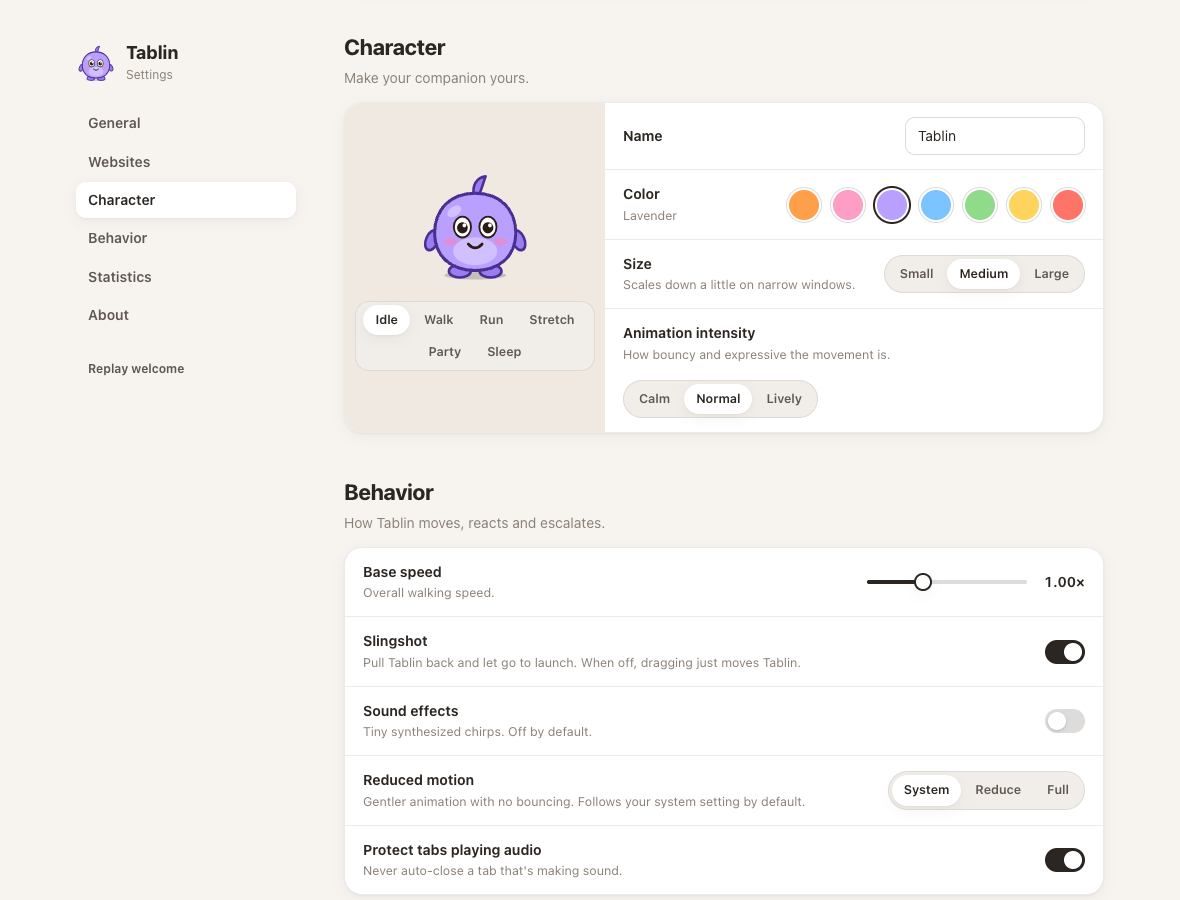
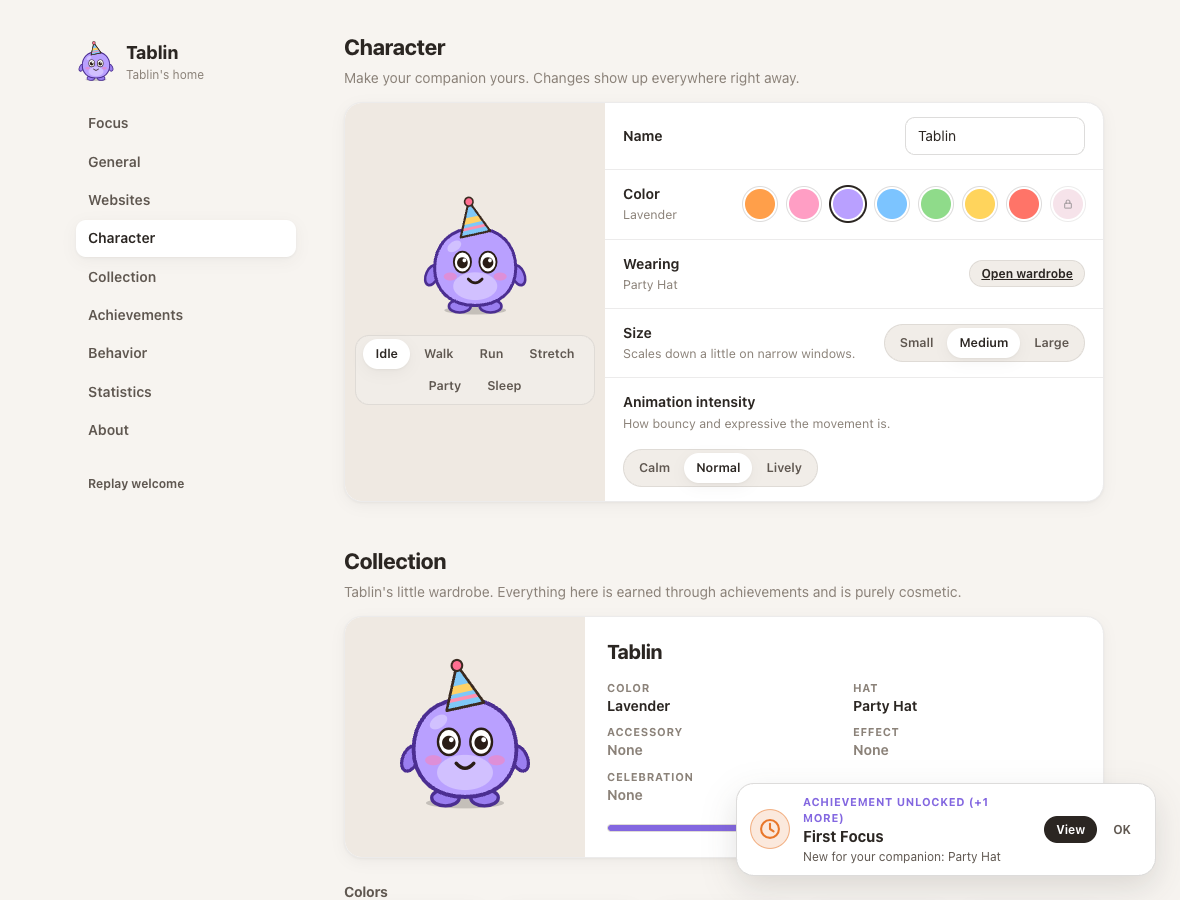
docs: Tablin 2.0 README, architecture, and refreshed screenshots

diff --git a/README.md b/README.md
@@ -1,11 +1,16 @@
 # Tablin
 
-**A tiny companion that walks over and closes your distracting tabs.**
+**A tiny companion that walks over and closes your distracting tabs, keeps you company while you
+focus, and earns little rewards along the way.**
 
 Open Instagram, TikTok, YouTube, Facebook, Reddit or X, and after a few seconds a small round
 creature pops in at the top of the page. It notices you, turns, and heads for a close button in
 the top-right corner. Grab it and pull it back to build tension, and it slingshots forward when you
 let go. Keep coming back and it gets faster, up to a fair cap.
+
+Start a focus session and Tablin dozes beside your timer, then wakes up to celebrate when you finish.
+Focus every day to build a streak, unlock achievements, and dress your companion in hats and
+accessories you've earned.
 
 Tablin is a Chrome extension (Manifest V3). It's local-only: no accounts, no analytics, and no
 network requests.
@@ -14,6 +19,10 @@ network requests.
 | ----------------------------------------------------------------------- | --------------------------------------------------------------------- | ------------------------------------------------------------------- | ----------------------------------------------- |
 | ![Tablin walking along the top of a page](docs/screenshots/walking.png) | ![Pulling Tablin back builds tension](docs/screenshots/slingshot.png) | ![Tablin asks whether to close the tab](docs/screenshots/nudge.png) | ![The Tablin popup](docs/screenshots/popup.png) |
 
+| Focus                                             | Collection                                                | Achievements                                          | Websites                                                        |
+| ------------------------------------------------- | --------------------------------------------------------- | ----------------------------------------------------- | --------------------------------------------------------------- |
+| ![Focus dashboard](docs/screenshots/v2-focus.png) | ![Character wardrobe](docs/screenshots/v2-collection.png) | ![Achievements](docs/screenshots/v2-achievements.png) | ![Logos and custom countdown](docs/screenshots/v2-websites.png) |
+
 > Screenshots are generated by the end-to-end test (`npm run test:e2e`) against a local test page,
 > so they always reflect the current build.
 
@@ -21,6 +30,7 @@ network requests.
 
 ## Contents
 
+- [What's new in 2.0](#whats-new-in-20)
 - [Features](#features)
 - [Install (no coding needed)](#install-no-coding-needed)
 - [How it works](#how-it-works)
@@ -32,6 +42,36 @@ network requests.
 - [Troubleshooting](#troubleshooting)
 - [Roadmap](#roadmap)
 - [Contributing](#contributing)
+
+## What's new in 2.0
+
+- **Website logos.** Built-in sites show recognizable, locally bundled logo marks instead of letter
+  tiles. Custom sites keep a tidy letter tile. No logo is ever fetched from the network.
+- **Custom countdowns.** Each site can use the global default, a preset (5–60 s), or **Custom**: any
+  whole number of seconds from 5 to 60, typed into a validated field. Changing the global default never
+  overwrites a site you set explicitly.
+- **Focus sessions.** Presets of 15, 25, 45, 60 and 90 minutes, or custom (1–240). There are short,
+  long and custom breaks, a long break suggested every N sessions, and pause, resume and end. The
+  timer lives in the background worker on timestamps and `chrome.alarms`, so it keeps going with the
+  popup closed and survives worker suspension. Each completion is recorded exactly once.
+- **Focus statistics.** Today, this week, total time, completed sessions, longest and average
+  session, daily and weekly charts, session history, and distractions caught.
+- **Daily streaks.** Consecutive local days with at least one completed focus session of 5 minutes
+  or more. Tablin shows your current and longest streak in friendly language.
+- **Achievements.** 18 achievements across Focus, Streaks, Distraction control and Time. They're
+  computed from real stored data, evaluated idempotently, and each has its own badge.
+- **Unlockable cosmetics.** Earn a Pastel Pink color, a Party Hat, Graduation Cap, Little Crown, Night
+  Cap, Star Clip, Bow Tie, Determined Headband, Golden Accent, and a Confetti celebration. They're
+  purely cosmetic: no payments, no randomness.
+- **Collection and wardrobe.** A grid of every item showing its unlock requirement and equipped
+  state, with a large live preview.
+- **The same character.** Cosmetics are layers inside the existing SVG rig's body group, so they
+  move with every existing animation. The engine, movement physics and slingshot are unchanged, and
+  tests assert that.
+- **Redesigned popup and settings.** The popup has Home and Focus tabs plus quick links to Character,
+  Achievements, Stats and Settings. The settings page adds Focus, Collection and Achievements sections.
+- **Safe upgrade.** A versioned, idempotent storage migration keeps every v1 setting, site toggle,
+  per-site delay, color, name and statistic.
 
 ## Features
 
@@ -109,6 +149,13 @@ A ready-to-share ZIP is produced by `npm run package` at `release/tablin-<versio
 contains the built extension (the same files as `dist/`) and is suitable for Chrome Web Store upload.
 To load it unpacked, unzip it first and select the unzipped folder.
 
+### Upgrading from 0.1
+
+Pull the latest code, run `npm install && npm run build`, then click **↻ (reload)** on Tablin's card
+in `chrome://extensions`. Your settings, sites, per-site delays, color, name and statistics migrate
+automatically. If you'd already been caught by Tablin enough times, the matching distraction
+achievements unlock right away.
+
 ## How it works
 
 1. You open a supported site. The countdown runs only while that tab is the active tab and visible.
@@ -127,13 +174,14 @@ decisions and the actual `chrome.tabs.remove` call happen in the background work
 
 ## Permissions
 
-| Permission                                                                                                                | Why                                                                                                                                                |
-| ------------------------------------------------------------------------------------------------------------------------- | -------------------------------------------------------------------------------------------------------------------------------------------------- |
-| Host access to `instagram.com`, `tiktok.com`, `youtube.com`, `facebook.com`, `reddit.com`, `x.com` (and their subdomains) | To show the character on those sites, and to read those tabs' URLs to verify a tab before closing it. Tablin doesn't read or collect page content. |
-| `storage`                                                                                                                 | Saves your settings, counters and the last closed tab's address on this device.                                                                    |
-| `alarms`                                                                                                                  | Ends timed pauses on schedule even if the background worker was asleep.                                                                            |
-| `scripting`                                                                                                               | Runs Tablin on sites _you add_ (after Chrome asks you for that one site), and on supported tabs that were already open when Tablin was installed.  |
-| Optional host access (`*://*/*`)                                                                                          | Never granted up front. When you add a custom site, Chrome asks for permission for **that domain only**. Removing the site removes the permission. |
+| Permission                                                                                                                | Why                                                                                                                                                                                                                |
+| ------------------------------------------------------------------------------------------------------------------------- | ------------------------------------------------------------------------------------------------------------------------------------------------------------------------------------------------------------------ |
+| Host access to `instagram.com`, `tiktok.com`, `youtube.com`, `facebook.com`, `reddit.com`, `x.com` (and their subdomains) | To show the character on those sites, and to read those tabs' URLs to verify a tab before closing it. Tablin doesn't read or collect page content.                                                                 |
+| `storage`                                                                                                                 | Saves your settings, counters and the last closed tab's address on this device.                                                                                                                                    |
+| `alarms`                                                                                                                  | Ends timed pauses and focus sessions on schedule even if the background worker was asleep.                                                                                                                         |
+| `notifications` _(optional, new in 2.0)_                                                                                  | Not granted at install. Chrome asks only if you turn on **Settings → Focus → Notify when a session ends**, so Tablin can tell you a session finished with the popup closed. Turning it off removes the permission. |
+| `scripting`                                                                                                               | Runs Tablin on sites _you add_ (after Chrome asks you for that one site), and on supported tabs that were already open when Tablin was installed.                                                                  |
+| Optional host access (`*://*/*`)                                                                                          | Never granted up front. When you add a custom site, Chrome asks for permission for **that domain only**. Removing the site removes the permission.                                                                 |
 
 Tablin doesn't request the `tabs`, `history`, `webRequest` or `<all_urls>` permissions. It uses
 `chrome.tabs` only for the tabs it already has host access to.
@@ -145,10 +193,14 @@ Tablin doesn't request the `tabs`, `history`, `webRequest` or `<all_urls>` permi
   and sounds.
 - Your browsing is never sent anywhere. Site detection runs locally against your site list.
 - Stored locally in `chrome.storage`: your settings; daily counters (caught, closed, snoozed,
-  reminders) kept for 120 days; the escalation count; the URL, title and tab position of the last
-  tab Tablin closed (kept so you can reopen it, and offered for 10 minutes); and per-tab countdown
-  state in session storage, which Chrome clears when the browser quits.
-- Uninstalling the extension deletes all of it. **Settings → Statistics → Reset** clears the counters.
+  reminders, focus minutes and sessions) kept for about 13 months; the escalation count; your focus
+  timer state and the last 500 focus sessions; achievements and your companion's wardrobe; the URL,
+  title and tab position of the last tab Tablin closed (kept so you can reopen it, and offered for 10
+  minutes); and per-tab countdown state in session storage, which Chrome clears when the browser quits.
+- Uninstalling the extension deletes all of it. **Settings → Statistics → Reset** clears counters
+  and focus history. Achievements and rewards you've earned are kept.
+- Site logos are trademarks of their owners. They're used only to identify each site in Tablin's
+  own settings and don't imply affiliation or endorsement.
 
 ## Development
 
@@ -160,18 +212,37 @@ npm test           # unit tests (Vitest)
 npm run lint       # ESLint + Prettier check
 npm run package    # build + release/tablin-<version>.zip
 npm run test:e2e   # end-to-end in real Chrome for Testing (downloads it once into .cache/)
+npm run test:upgrade # real upgrade: builds v0.1.0 from git, creates data, upgrades in place to this build
 npm run icons      # regenerate toolbar icons (procedural, no image tools needed)
 ```
 
 ### Testing
 
-- **Unit tests** (about 150 tests) cover domain and subdomain matching, lookalike domains, the
+- **Unit tests** (253 tests in 21 files). The original suite covers domain and subdomain matching, lookalike domains, the
   countdown, cancellation, active-tab verification, pinned and audible protection, unsaved-input
   protection, escalation curves and caps, drag clamping, tension and charge, launch velocity, spring
   behavior, the character state machine and controller (walk, run, drag, slingshot, arrival),
   settings validation, storage persistence, message routing and sender checks, rapid tab switching,
   reloads, duplicate events, disabled sites, pauses, emergency stop, undo, and service worker
-  suspension (a fresh manager over the same storage).
+  suspension (a fresh manager over the same storage). The V2 tests cover:
+  - **Focus timer:** start, pause and resume on timestamps; custom-length validation; completing
+    exactly once under alarm, backup timer, popup and worker restart; ending early credits time
+    without penalty; long-break cycles; breaks that auto-start or elapse while the computer is
+    asleep; local-day attribution.
+  - **Relax during breaks**, and no lost updates when a focus completion and an interception happen
+    at the same moment.
+  - **Streaks:** consecutive days, the yesterday grace, missed days, duplicates, timezones, and the
+    longest streak surviving pruning.
+  - **Grouping:** weekly totals by Monday-to-Sunday week.
+  - **Achievements:** every threshold, idempotency, and reward repair.
+  - **Inventory:** locked items refused, wrong-slot items refused, equip and unequip, tamper
+    validation, persistence.
+  - **Migration:** v1 to v2 with every field checked, idempotent re-runs, corrupted data, fresh
+    installs.
+  - **Custom delays:** parsing, inheritance, persistence, and edits made mid-countdown.
+  - **Logos:** every site has one, no external URLs, fallback tiles.
+  - **Cosmetics:** attached inside the body group across walk, run, drag, charge, launch,
+    celebrate and sleep, with physics unchanged.
 - **End-to-end** (`tests/e2e/run-e2e.mjs`) loads `dist/` into Chrome for Testing. Every request is
   intercepted: supported-site URLs are answered with a local fixture page and everything else is
   blocked. It then checks that the character appears after the countdown and walks, that nudge mode
@@ -179,7 +250,19 @@ npm run icons      # regenerate toolbar icons (procedural, no image tools needed
   and the release launches it, that the cancel window appears and the correct tab closes, that undo
   reopens it, that "Keep this tab" keeps it, that switching tabs prevents background closure, that
   pinned tabs are protected, that escalation increases, that emergency stop works, that color
-  changes persist, and that settings survive a Chrome restart.
+  changes persist, and that settings survive a Chrome restart. V2 adds 5 checks (18 in total):
+  - The logos render, and a custom 27-second delay can be set through the picker (with validation).
+  - A focus session started from the popup keeps running after the popup closes, and pause and
+    resume work.
+  - The session completes on its own, celebrates, records stats once, and unlocks First Focus and
+    the Party Hat.
+  - Equipping the hat works, and a locked crown can't be equipped.
+  - The hatted character still walks, charges and slingshots, with the cancel window intact.
+  - V2 data survives a Chrome restart.
+- **Upgrade test** (`tests/e2e/upgrade-e2e.mjs`) builds the real v0.1.0 from git `main` and runs it
+  in Chrome to create v1 data (per-site delays, color, name, counters). It then replaces the build
+  in place with the current one (same path, so the same extension ID and storage), relaunches, and
+  checks 19 migration results inside Chrome.
 - CI (GitHub Actions) runs typecheck, lint, unit tests, build and package, and uploads the ZIP as
   an artifact.
 
@@ -190,6 +273,9 @@ src/
   background/            Manifest V3 service worker (no persistent state in memory)
     service-worker.ts      Chrome event wiring, badge, alarms, custom-site scripts
     distraction-manager.ts Per-tab lifecycle: waiting → counting → appeared; pause/snooze/undo
+    focus-manager.ts       Focus sessions & breaks: timestamps + alarms, idempotent completion
+    progress.ts            Achievement evaluation + reward granting (inside the shared lock)
+    serial.ts              One FIFO lock shared by every manager (no lost read-modify-writes)
     escalation-manager.ts  Levels, speed curve, delay shortening, approach plans (pure)
     tab-manager.ts         verifyClosable() safety gate + chrome.tabs adapter
   content/               Content script: page ↔ worker bridge
@@ -205,9 +291,10 @@ src/
     CharacterRenderer.ts   Applies poses to the SVG rig
     DragController.ts      Pointer Events + capture, Escape and pointercancel handling
     CharacterSound.ts      WebAudio-synthesized effects
-    characters/            Character designs (SVG rig builders) and color palettes
+    characters/            Character designs (SVG rig builders), palettes, cosmetic artwork
   detection/             Site registry and URL matching
-  shared/                Types, constants, settings validation, storage, stats, messages
+  shared/                Types, constants, settings validation, storage, stats, messages,
+                         achievements & cosmetics catalogs, versioned migrations
   popup/  options/  ui/  React UI and a small shared design system
 public/manifest.json     Extension manifest (built into dist/)
 tests/unit  tests/e2e    Vitest unit tests; real-Chrome end-to-end runner
@@ -227,6 +314,17 @@ Key decisions:
 - **The page overlay lives in a closed shadow root.** It builds its DOM with `createElement`
   (no `innerHTML`, which keeps it safe on Trusted Types pages) and uses constructable stylesheets
   (which page CSP doesn't block). Only the character and buttons accept pointer events.
+- **Focus timers are owned by the worker.** A session is `{startedAt, endsAt}` (or `remainingMs`
+  while paused) in `chrome.storage.local`. A `chrome.alarm`, a backup timer and any status read can
+  all trigger completion. Completion is keyed by session id, so it's recorded exactly once.
+- **Progress is derived, not counted twice.** Achievements are pure functions of stored statistics,
+  re-evaluated idempotently. Rewards are granted with the achievement and can't be equipped while
+  locked (the worker checks every equip, and rendering re-validates).
+- **Cosmetics are rig layers.** Hat and accessory slots sit inside the existing SVG body group, so
+  they inherit every bob, squash, lean, jump and drag. The engine is extended, not replaced.
+- **Migrations are versioned and idempotent.** `schemaVersion` in storage gates
+  `migrateStorage()`, which runs before the worker handles any event. The validators also accept the
+  v1 shapes, so even a partial migration can't lose data.
 - **Messages are validated and sender-checked.** Content-script messages must come from a tab.
   Popup-only commands (pause, reset and so on) must come from Tablin's own pages, so a web page
   can't drive them.
@@ -246,6 +344,10 @@ See [docs/ARCHITECTURE.md](docs/ARCHITECTURE.md) for the state diagrams.
   isn't focused.
 - Tabs that were already open on a site you just _added_ need a reload before Tablin runs there.
 - On sub-sites such as YouTube Studio, the whole domain counts. There's no per-path rule yet.
+- Focus completion is exact while the worker is awake (backup timer). Otherwise Chrome may deliver
+  the alarm up to about 30 s late. The session is still recorded at its true end time.
+- The streak threshold (5 minutes) is fixed in 2.0. It's a constant, ready to become a setting.
+- "Average session" is computed from your most recent 500 sessions.
 
 ## Troubleshooting
 
@@ -254,6 +356,8 @@ See [docs/ARCHITECTURE.md](docs/ARCHITECTURE.md) for the state diagrams.
 | Nothing happens on YouTube etc.          | Check the popup: the companion must be on and not paused, and the site enabled under Settings → Websites. Wait the full countdown with the tab in front. Reload tabs opened before installing. |
 | "Load unpacked" fails                    | Select the `dist` folder (not the project root), and run `npm run build` first.                                                                                                                |
 | Changes don't show up during development | Run `npm run dev`, then click ↻ for Tablin on `chrome://extensions` and reload the page.                                                                                                       |
+| The focus timer seems to have stopped    | It runs in the background, so reopen the popup and it catches up. If Chrome was closed, the session completes at its end time when Chrome next starts.                                         |
+| No notification when a session ends      | Check Settings → Focus → Notify, and that your OS allows Chrome notifications.                                                                                                                 |
 | The tab didn't close                     | Auto-close is off by default. Pinned tabs, tabs playing audio, and pages where you've typed something are protected on purpose.                                                                |
 | I want it gone right now                 | Press <kbd>Esc</kbd>, click **Not now**, use **Emergency stop** in the popup (<kbd>Alt</kbd>+<kbd>Shift</kbd>+<kbd>S</kbd>), or turn the switch off.                                           |
 | Shortcuts don't work                     | Another extension may own them. Set your own at `chrome://extensions/shortcuts`.                                                                                                               |
@@ -267,9 +371,10 @@ See [docs/ARCHITECTURE.md](docs/ARCHITECTURE.md) for the state diagrams.
   the extension still the source of truth for tab state. The character engine is browser-agnostic
   so it can be reused in a `WKWebView` or ported.
 - Safari Web Extension build (shared engine and worker logic).
-- More characters (the `characters/` design registry is ready), accessories, unlockable animations,
-  and custom character imports.
-- Richer focus sessions: schedules, focus timers, allow-lists, and per-path rules.
+- More characters (the `characters/` design registry is ready), more accessories and celebration
+  animations, and custom character imports.
+- Richer focus: schedules, a configurable streak threshold, allow-lists, per-path rules, and
+  blocking modes tied to focus sessions.
 - Chrome Web Store release.
 
 ## Contributing

diff --git a/docs/ARCHITECTURE.md b/docs/ARCHITECTURE.md
@@ -66,6 +66,51 @@ transition table. Every accepted transition cross-fades poses over ~180 ms.
 max ≤ 3. The countdown shrinks by `[1, .85, .7, .6, .5]` per level, never below 4 s (or the configured
 delay if that's shorter). Periods: local calendar day, or browser session.
 
+## Focus sessions (V2)
+
+```
+            FOCUS_START(kind, minutes)
+ idle ─────────────────────────────▶ running {startedAt, endsAt}
+                                      │   ▲
+                         FOCUS_PAUSE  │   │ FOCUS_RESUME (endsAt = now + remainingMs)
+                                      ▼   │
+                                    paused {remainingMs}
+ running ── endsAt reached (alarm / backup timer / any status read) ──▶ completed
+          └─ FOCUS_END ─▶ ended early (time credited, not a completed session)
+```
+
+Completion is idempotent: the session id is checked against history before anything is recorded.
+Completed focus sessions update `stats.days[endDay]` (minutes, sessions, qualifying ≥ 5 min) and
+the longest streak, then `syncProgress()` evaluates achievements and grants rewards. All of this
+runs inside the single `Serial` lock shared with the distraction manager.
+
+## Achievements, rewards & cosmetics
+
+`computeMetrics(stats)` → `{completedSessions, longestSessionMinutes, bestWeekSessions,
+longestStreak, totalIntercepted, totalFocusMinutes}` → `evaluateAchievements()` unlocks anything whose
+threshold is met and not yet unlocked, and grants its cosmetic. Cosmetics render as SVG groups in
+rig slots (`hatSlot` and `accessorySlot` inside the body group, `effectSlot` and `celebrationSlot`
+inside the whole-character group), so they inherit every existing transform.
+
+## Storage schema & migration
+
+| Key (local)     | Since | Contents                                                                          |
+| --------------- | ----- | --------------------------------------------------------------------------------- |
+| `schemaVersion` | 2     | `2`                                                                               |
+| `settings`      | 1     | v2 adds `sites[].delay` (DelayConfig) and `focus`                                 |
+| `stats`         | 1     | v2 adds focus fields per day, `totalWatchSessions`, focus totals, `longestStreak` |
+| `focus`         | 2     | current session, cycle count, pending celebration                                 |
+| `focusHistory`  | 2     | last 500 sessions                                                                 |
+| `achievements`  | 2     | id → unlocked-at                                                                  |
+| `inventory`     | 2     | unlocked cosmetics + equipped slots                                               |
+| `unseenUnlocks` | 2     | unlocks not yet celebrated in the UI                                              |
+
+`migrateStorage()` (v0/v1 → v2) rewrites settings through the v1-aware validator: per-site
+`delaySeconds` becomes a preset or custom `DelayConfig`, and `null` becomes inherit. It moves the
+v1 `totalFocusSessions` (browser sessions) to `totalWatchSessions`, initialises the new keys only
+if they're missing, unlocks achievements that existing data genuinely earned, and stamps
+`schemaVersion: 2`. Re-running it changes nothing.
+
 ## Future native companion
 
 The `character/` engine has no `chrome.*` dependencies. A macOS app (SwiftUI/AppKit) can host it in a
